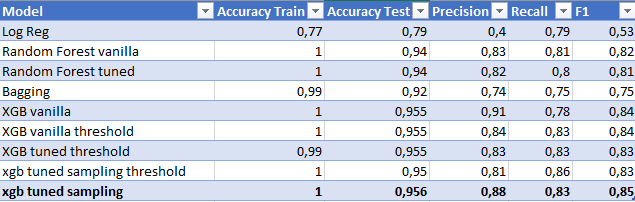
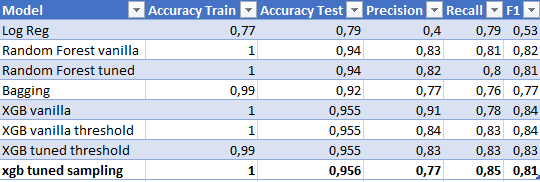
changed readme

diff --git a/README.md b/README.md
@@ -34,6 +34,7 @@ This project uses a customer churn data set. The data did not include any missin
 * Number of voice mail messages
 
 Regarding my target variable (churn), we are dealing with class imbalance. 85% of the data set contain information about staying customers and only 15% churn. 
+
 ![target](https://github.com/Julez89/dsc-phase-3-project-v2-3/blob/main/images/target_var.png)
 
 ### Approach
@@ -53,24 +54,27 @@ In summary, I took the following steps:
 
 ## Modeling
 
-For my customer, I want to be able to identify customers who are likely to leave but without identifying too many customers falsely. Both letting a customer go and spending money on customers who are not actually planning to leave result in costs for my stakeholder that could be reduced. Therefore, my model should balance both errors (incorrectly identifying a customer as leaving and missing the identification of a leaving customer).The model is significant and explains 68% of the variance. My target variable is in log dollars so if all features are 0, the house would sell for around 22000 USD (exp(10)). For my categorical values, my reference values are: zip_category medium, basement no, waterfront no. For the most impactful numerical values, we can say that with each grade increase, the price will increase by 1.1%. Also, for 1% increase in sqft above, the price will increase by 1.49%. Exp(0.4)
+For my customer, my main priority is to be able to identify customers who are likely to leave. Both letting a customer go and spending money on customers who are not actually planning to leave result in costs for my stakeholder that could be reduced. However, losing a customer is much more costly than overspending a bit on staying customers. Therefore, my model should reduce false negatives (missing the identification of a leaving customer) and I will focus on a high recall score while accepting lower precision score.
 My preparation steps included the standardization of data and oversampling using SMOTE. 
-To follow an iterative approach, I am starting with a very simple, vanilla logistic regression model which did not perform well (F1 = 0.53). The accuracy on training and testing data was similar (0.77 and 0.79) which shows that it was neither under nor overfitting. 
-As next model, I am trying a Random Forest model with the standard hyperparameters. This model already improved a lot (F1=0.82). Also the accuracy improved a lot even though the accuracy of 1 for training is a bit suspicious. The accuracy of test data is 0.94 so it's only slightly overfitting and overall performing quite well. The adjustment of hyperparameters for my random forest model did not improve the model.
+To follow an iterative approach, I am starting with a very simple, vanilla logistic regression model which did not perform too well (Recall = 0.79). The accuracy on training and testing data was similar (0.77 and 0.79) which shows that it was neither under nor overfitting. 
+As next model, I am trying a Random Forest model with the standard hyperparameters. This model already improved (Recall=0.81). Also the accuracy improved a lot even though the accuracy of 1 for training is a bit suspicious. The accuracy of test data is 0.94 so it's only slightly overfitting and overall performing quite well. The adjustment of hyperparameters for my random forest model did not improve the model.
 Next, I am trying an ensemble method with bagging and XGB Classifier. The main difference between BaggingClassifier and XGBClassifier is in their approach to ensemble learning. BaggingClassifier creates multiple samples of the training data and trains base classifiers on each sample, while XGBClassifier uses gradient boosting to iteratively improve the prediction accuracy.
-The bagging classifier showed worse metrics than the random forest model. The XGBClassifier worked fairly well. It had a high precision (0.91) but a bit lower recall (0.78). Since I want to balance both errors, I tried different strategies to come to a better balance. First, I tried different hyperparameters, then I tried using a lower threshold (0.3 instead of default 0.5). Finally, I tried a different sampling method than Smote that worked better. It was a combination of oversampling and undersampling. I applied my slightly tuned XGBClassifier model without adjusting the threshold.
+The bagging classifier showed worse metrics than the random forest model. The XGBClassifier worked fairly well. It had a high precision (0.91) but a bit lower recall (0.78). Since I want get a higher recall, I tried different strategies to come to a better core. First, I tried different hyperparameters, then I tried using a lower threshold (0.3 instead of default 0.5). Finally, I tried a different sampling method than Smote that worked better. It was a combination of oversampling and undersampling. I applied my slightly tuned XGBClassifier model without adjusting the threshold.
+
 ![model](https://github.com/Julez89/dsc-phase-3-project-v2-3/blob/main/images/models.png)
 
 ## Evaluation
 
 My final model is a XGB Classifier with slightly tuned hyperparameters but default threshold. (learning_rate=0.1, max_depth=5, n_estimators=300) after addressing class imbalance with oversampling and undersampling instead of SMOTE. 
-The combination of oversampling of the minority and undersampling of majority has lead to better results than the approach with SMOTE. The XGB Classifier model has performed well in predicting customer churn. The precision score for class 1 (churn) is 0.88, which means that when the model predicts a customer will churn, it is correct 88% of the time. The recall score for class 1 is 0.83, which means that the model correctly identifies 83% of all customers who actually churn. The F1-score for class 1 is 0.85, which is a harmonic mean of precision and recall and indicates overall performance of the model for class 1. Additionally, the macro-average F1-score is 0.91, which means that the model performs well in both classes. The accuracy of the model on the test set is 0.9565, which means that the model correctly predicts 95.65% of all customers' churn status. The high accuracy on the training set (1.0) and a comparable accuracy on the test set (0.9565) suggests that the model has not overfit the training data. 
+The combination of oversampling of the minority and undersampling of majority has lead to better results than the approach with SMOTE. The XGB Classifier model has performed well in predicting customer churn. The precision score for class 1 (churn) is 0.77, which means that when the model predicts a customer will churn, it is correct 77% of the time. The recall score for class 1 is 0.85, which means that the model correctly identifies 85% of all customers who actually churn. The F1-score for class 1 is 0.81, which is a harmonic mean of precision and recall and indicates overall performance of the model for class 1. Additionally, the macro-average F1-score is 0.91, which means that the model performs well in both classes. The accuracy of the model on the test set is 0.9565, which means that the model correctly predicts 95.65% of all customers' churn status. The high accuracy on the training set (1.0) and a comparable accuracy on the test set (0.9565) suggests that the model has not overfit the training data. 
+
 ![features](https://github.com/Julez89/dsc-phase-3-project-v2-3/blob/main/images/features.png)
+
 Based on the feature importance chart, the three most important features for predicting customer churn are international_plan, voice_mail_plan, and customer_service_calls. This suggests that customers who have an international plan are more likely to churn, as are those with a voice mail plan. In addition, customers who have made a larger number of customer service calls are also more likely to churn.
 
 ## Summary & Recommendation
 
-With the model, I have identified several factors that are important in determining the churn of the customer. While the model is not perfect, it will keep the balance between falsely identifying churning customers and not identifying customers who are likely to churn. With this information, the telephone company can take steps to reduce churn and retain customers. For example, they could investigate whether their international plans are meeting the needs of their customers or if there are alternative plans that may be more suitable. The company could also evaluate the importance of offering voice mail plans to customers, and consider the impact on churn rates if such plans are not offered. Finally, they may want to review their customer service processes and practices to identify areas that could be improved to reduce the number of customer service calls and, in turn, decrease the likelihood of churn.
+With the model, I have identified several factors that are important in determining the churn of the customer. While the model is not perfect, it will mostly catch those customers who are likely to leave. With this information, the telephone company can take steps to reduce churn and retain customers. For example, they could investigate whether their international plans are meeting the needs of their customers or if there are alternative plans that may be more suitable. The company could also evaluate the importance of offering voice mail plans to customers, and consider the impact on churn rates if such plans are not offered. Finally, they may want to review their customer service processes and practices to identify areas that could be improved to reduce the number of customer service calls and, in turn, decrease the likelihood of churn.
 We would have to monitor the performance of the model when we introduce more data to see if it's overfitting with more data or not. 
 
 ## This repository
